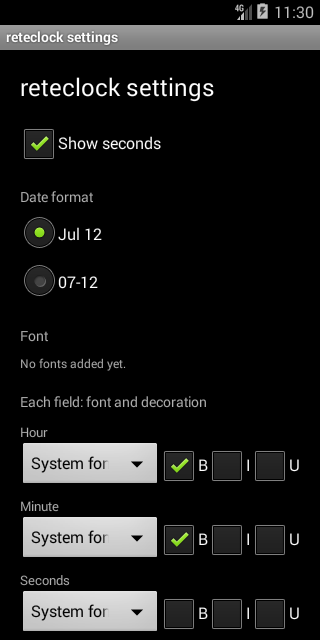
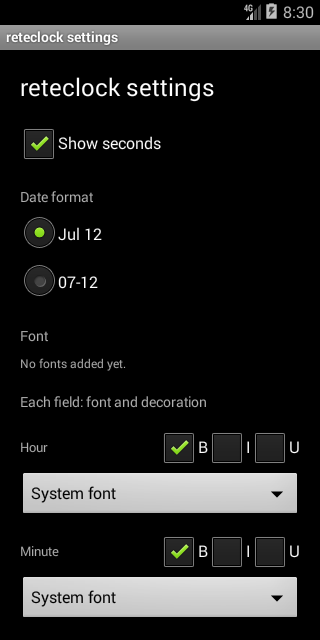
0.3.4: a settings row that fits, and a word about the long press
Version code 11.

A field's name and its three toggles share the first line now, with the font spinner alone on the
second. It was the other way round, and the spinner sharing a line with three checkboxes truncated
its label to "System for" on a 320dp screen -- visible in the screenshot committed yesterday, which
is why it is fixed rather than photographed more kindly.

The settings screen says which font files generally work: TrueType and OpenType. The picker is still
unfiltered on purpose. Font MIME types are reported inconsistently by document providers, so a
filter hides files that would have worked; saying what to look for and refusing what will not load
is the honest arrangement, and the import already checks by trying to load it.

And the clock says once, on launch, that pressing and holding opens the settings -- because nothing
on a full-screen clock suggests it does. It stays quiet when PowerConnectionReceiver started it,
since that happens on a bedside stand and possibly at night, and it stops for good once the settings
screen has been opened. A hint nobody needs any more is just something in the way.

Verified on API 19 from a clean install: the hint appears on launch, the rows fit with the font name
intact, the font kinds show under the button, and hint_seen is recorded once settings is opened.

Changed region(s): [[0.0625, 0.6562, 0.9375, 1.0], [0.7188, 0.0, 0.9062, 0.0312]]

diff --git a/src/android/java/com/reteclock/SettingsActivity.java b/src/android/java/com/reteclock/SettingsActivity.java
@@ -72,6 +72,9 @@ public class SettingsActivity extends Activity {
     protected void onCreate(Bundle savedInstanceState) {
         super.onCreate(savedInstanceState);
 
+        // Getting here is proof the long-press hint has done its job.
+        Settings.setHintSeen(this);
+
         LinearLayout root = new LinearLayout(this);
         root.setOrientation(LinearLayout.VERTICAL);
         root.setBackgroundColor(Color.BLACK);
@@ -140,6 +143,7 @@ public class SettingsActivity extends Activity {
             }
         });
         root.addView(add);
+        root.addView(footer(getString(R.string.settings_font_kinds)));
 
         root.addView(heading(getString(R.string.settings_dock)));
 
@@ -241,11 +245,11 @@ public class SettingsActivity extends Activity {
     }
 
     /**
-     * One field: its name, then its font and its three decorations on the line below.
+     * One field: its name and its three decorations on one line, its font on the next.
      *
-     * Everything about a field sits together, so there is no second section to keep in step with
-     * this one. Two lines rather than one because a spinner and three checkboxes do not fit beside
-     * a label on a narrow phone.
+     * The name is short and the toggles are narrow, so they share a line comfortably. The spinner
+     * then gets the full width, which it needs — sharing a line with three checkboxes truncated it
+     * to "System for" on a 320dp screen.
      */
     private View fieldRow(final String role, int label, final List<String> names,
             List<String> labels) {
@@ -253,15 +257,22 @@ public class SettingsActivity extends Activity {
         block.setOrientation(LinearLayout.VERTICAL);
         block.setPadding(0, dp(8), 0, 0);
 
+        LinearLayout header = new LinearLayout(this);
+        header.setOrientation(LinearLayout.HORIZONTAL);
+        header.setGravity(Gravity.CENTER_VERTICAL);
+
         TextView name = new TextView(this);
         name.setText(label);
         name.setTextColor(TEXT_DIM);
         name.setTextSize(TypedValue.COMPLEX_UNIT_SP, 13f);
-        block.addView(name);
+        name.setLayoutParams(new LinearLayout.LayoutParams(
+                0, LinearLayout.LayoutParams.WRAP_CONTENT, 1f));
+        header.addView(name);
 
-        LinearLayout row = new LinearLayout(this);
-        row.setOrientation(LinearLayout.HORIZONTAL);
-        row.setGravity(Gravity.CENTER_VERTICAL);
+        header.addView(toggle(role, Settings.KEY_BOLD, R.string.settings_bold));
+        header.addView(toggle(role, Settings.KEY_ITALIC, R.string.settings_italic));
+        header.addView(toggle(role, Settings.KEY_UNDERLINE, R.string.settings_underline));
+        block.addView(header);
 
         ArrayAdapter<String> adapter = new ArrayAdapter<String>(this,
                 android.R.layout.simple_spinner_item, labels);
@@ -272,7 +283,7 @@ public class SettingsActivity extends Activity {
         int selected = names.indexOf(Settings.fontNameFor(this, role));
         spinner.setSelection(selected < 0 ? 0 : selected);
         spinner.setLayoutParams(new LinearLayout.LayoutParams(
-                0, LinearLayout.LayoutParams.WRAP_CONTENT, 1f));
+                LinearLayout.LayoutParams.MATCH_PARENT, LinearLayout.LayoutParams.WRAP_CONTENT));
         spinner.setOnItemSelectedListener(new AdapterView.OnItemSelectedListener() {
             @Override
             public void onItemSelected(AdapterView<?> parent, View view, int position, long id) {
@@ -283,13 +294,7 @@ public class SettingsActivity extends Activity {
             public void onNothingSelected(AdapterView<?> parent) {
             }
         });
-        row.addView(spinner);
-
-        row.addView(toggle(role, Settings.KEY_BOLD, R.string.settings_bold));
-        row.addView(toggle(role, Settings.KEY_ITALIC, R.string.settings_italic));
-        row.addView(toggle(role, Settings.KEY_UNDERLINE, R.string.settings_underline));
-
-        block.addView(row);
+        block.addView(spinner);
         return block;
     }
 

diff --git a/src/android/java/com/reteclock/ClockActivity.java b/src/android/java/com/reteclock/ClockActivity.java
@@ -6,6 +6,7 @@ import android.os.Build;
 import android.os.Bundle;
 import android.view.View;
 import android.view.WindowManager;
+import android.widget.Toast;
 
 /**
  * Full-screen clock activity.
@@ -13,7 +14,8 @@ import android.view.WindowManager;
  * Launched from the home screen, from a desk dock, or by {@link PowerConnectionReceiver} when the
  * device starts charging. It keeps the screen on for as long as it is visible.
  *
- * A long press opens the settings screen.
+ * A long press opens the settings screen. Since nothing on screen says so, the clock says it once
+ * on launch — but only when the user opened it themselves, and only until they have been there.
  */
 public class ClockActivity extends Activity {
 
@@ -46,6 +48,23 @@ public class ClockActivity extends Activity {
         });
         setContentView(view);
         hideSystemBars();
+        maybeHintAtSettings();
+    }
+
+    /**
+     * Says that a long press opens the settings, briefly.
+     *
+     * Not when the charger started the clock: that happens on a bedside stand, possibly in the
+     * middle of the night, and a message nobody asked for has no business appearing there. And not
+     * once the user has opened the settings, because then they know.
+     */
+    private void maybeHintAtSettings() {
+        boolean startedByCharger =
+                getIntent() != null && getIntent().getBooleanExtra(EXTRA_DOCK, false);
+        if (startedByCharger || Settings.hintSeen(this)) {
+            return;
+        }
+        Toast.makeText(this, R.string.hint_long_press, Toast.LENGTH_LONG).show();
     }
 
     @Override

diff --git a/src/android/java/com/reteclock/Settings.java b/src/android/java/com/reteclock/Settings.java
@@ -22,6 +22,7 @@ public final class Settings {
     public static final String KEY_BOLD = "text_bold";
     public static final String KEY_ITALIC = "text_italic";
     public static final String KEY_UNDERLINE = "text_underline";
+    public static final String KEY_HINT_SEEN = "hint_seen";
 
     /** Where imported fonts live, inside the app's own storage: no permission needed to read it. */
     private static final String FONT_DIR = "fonts";
@@ -60,6 +61,20 @@ public final class Settings {
     /** The fonts the user has imported. */
     public static FontLibrary fonts(Context context) {
         return new FontLibrary(new File(context.getFilesDir(), FONT_DIR));
+    }
+
+    /**
+     * Whether the user has been to the settings screen.
+     *
+     * The clock hints that a long press opens it, and stops once they have found it — a hint nobody
+     * needs any more is just something in the way.
+     */
+    public static boolean hintSeen(Context context) {
+        return prefs(context).getBoolean(KEY_HINT_SEEN, false);
+    }
+
+    public static void setHintSeen(Context context) {
+        prefs(context).edit().putBoolean(KEY_HINT_SEEN, true).commit();
     }
 
     /** The fields that can each carry their own font, in the order the settings screen lists them. */

diff --git a/README.md b/README.md
@@ -8,7 +8,7 @@ it draws so an OLED panel does not burn in.
 
 ## Download
 
-**[⬇ Download reteclock-0.3.3.apk](https://github.com/rubidus-api/reteclock_apk/releases/latest/download/reteclock-0.3.3.apk)** — 69 KB, installs on Android 2.3 and newer.
+**[⬇ Download reteclock-0.3.4.apk](https://github.com/rubidus-api/reteclock_apk/releases/latest/download/reteclock-0.3.4.apk)** — 69 KB, installs on Android 2.3 and newer.
 
 Open the file on the phone to install it. On Android 4.4, enable Settings > Security > Unknown
 sources first. All releases: [Releases](https://github.com/rubidus-api/reteclock_apk/releases).
@@ -21,7 +21,7 @@ uninstalling.
 
 ## Status
 
-Working APK, version 0.3.3. Reference platform: Android 4.4 KitKat (API 19).
+Working APK, version 0.3.4. Reference platform: Android 4.4 KitKat (API 19).
 Reference platform: Android 4.4 KitKat (API 19).
 
 ## Supported Android versions
@@ -85,7 +85,9 @@ per-field decorations; the hour and the minute have it on to begin with, and you
 
 ## Settings
 
-Long press the clock to open the settings screen:
+Press and hold the clock to open the settings screen. The clock says so once when you open it, and
+stops saying it once you have been there — and never says it when the charger started the clock, so
+it stays quiet on a bedside stand.
 
 <img src="docs/screenshots/settings.png" alt="Settings: a font for each field, each with bold, italic and underline" width="240">
 
@@ -96,8 +98,10 @@ In the order they appear on the screen:
 - **Date format** — `Jul 12` (abbreviated month name) or `07-12` (numeric).
 - **Font** — the clock draws in the system font unless you add your own. *Add a font from a file*
   opens the system file picker; the file is copied into the app, so reteclock never asks for
-  storage permission and the font keeps working if you move or delete the original. The list shows
-  each font's size and the total they occupy, and any of them can be deleted.
+  storage permission and the font keeps working if you move or delete the original. TrueType
+  (`.ttf`) and OpenType (`.otf`) are what a device can generally read, and anything it cannot is
+  refused on the spot rather than left in the list. The list shows each font's size and the total
+  they occupy, and any of them can be deleted.
 - **Each field: font and decoration** — the hour, the minute, the seconds, the weekday, the month
   and day, and the year each choose their own font, and their own **B**old, **I**talic and
   **U**nderline. The hour and the minute start bold; you can turn that off. Sizes stay worked out
